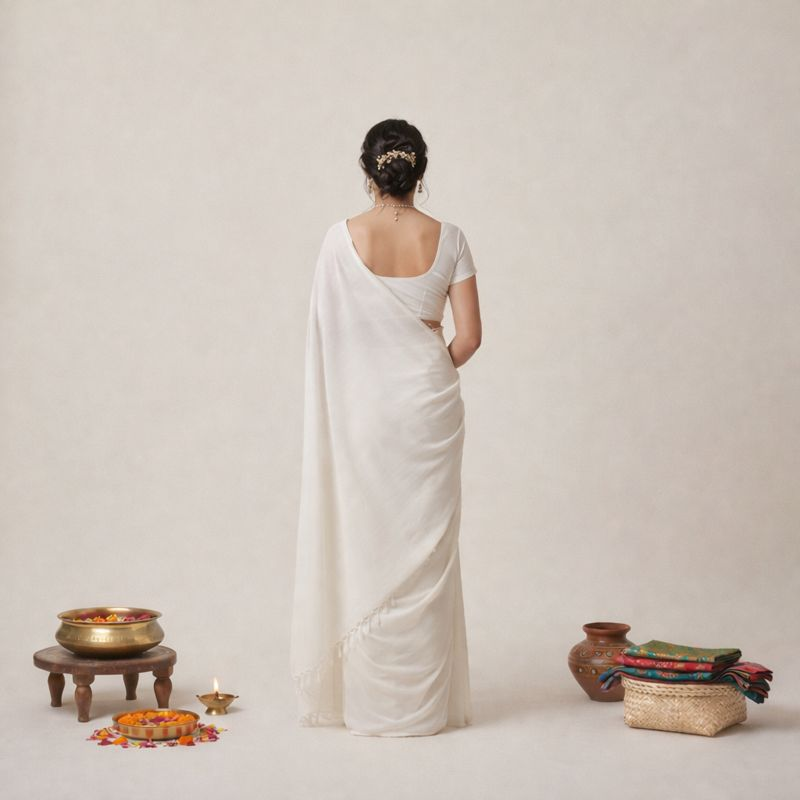
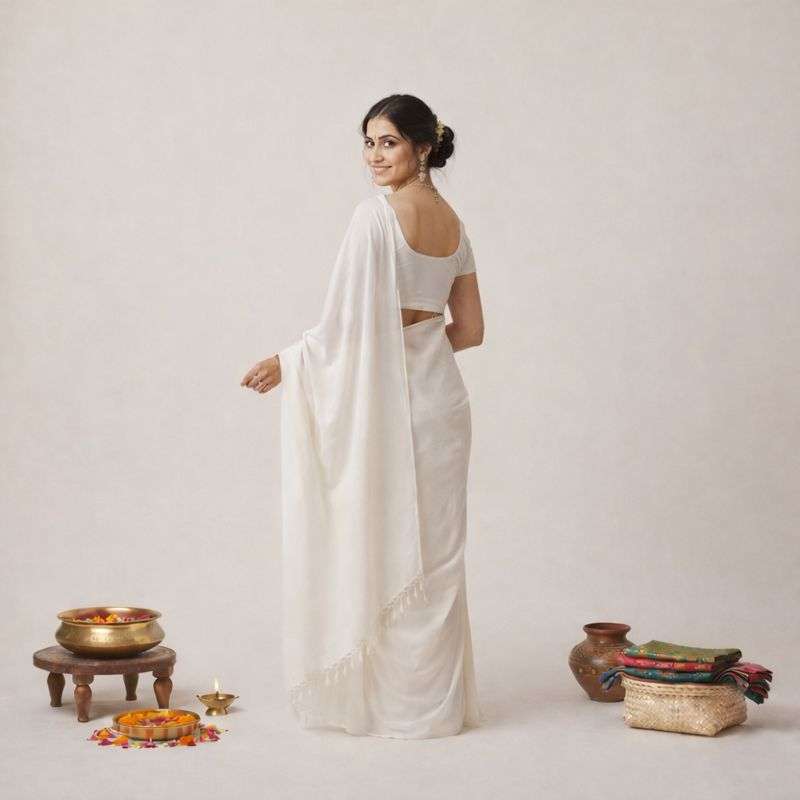
api changes

diff --git a/api/drape-saree-parts.js b/api/drape-saree-parts.js
@@ -70,7 +70,7 @@ async function urlToBase64(imageUrl) {
       const fileBuffer = await fs.readFile(filePath);
       return Buffer.from(fileBuffer).toString('base64');
     }
-    
+
     // Otherwise fetch from URL
     const response = await axios.get(imageUrl, { responseType: 'arraybuffer' });
     return Buffer.from(response.data).toString('base64');
@@ -80,14 +80,80 @@ async function urlToBase64(imageUrl) {
   }
 }
 
+async function urlToBuffer(imageUrl) {
+  // Check if it's a local file path
+  if (imageUrl.startsWith('./') || imageUrl.startsWith('../') || imageUrl.includes('public/')) {
+    const filePath = path.join(process.cwd(), imageUrl.replace('./', ''));
+    return await fs.readFile(filePath);
+  }
+  const response = await axios.get(imageUrl, { responseType: 'arraybuffer' });
+  return Buffer.from(response.data);
+}
+
+async function urlToNormalizedPngBase64(imageUrl, { width, height, fit }) {
+  const input = await urlToBuffer(imageUrl);
+  const out = await sharp(input)
+    .flatten({ background: { r: 255, g: 255, b: 255 } })
+    .resize({ width, height, fit: fit || 'cover' })
+    .png()
+    .toBuffer();
+  return out.toString('base64');
+}
+
+function rgbDistance(a, b) {
+  if (!a || !b) return Number.POSITIVE_INFINITY;
+  const dr = (a.r || 0) - (b.r || 0);
+  const dg = (a.g || 0) - (b.g || 0);
+  const db = (a.b || 0) - (b.b || 0);
+  return Math.sqrt(dr * dr + dg * dg + db * db);
+}
+
+async function averageRgbFromBase64Region(base64Data, regionNorm) {
+  const buf = Buffer.from(String(base64Data), 'base64');
+  const img = sharp(buf);
+  const meta = await img.metadata();
+  const width = meta.width || 0;
+  const height = meta.height || 0;
+  if (!width || !height) return null;
+
+  const left = Math.max(0, Math.floor(width * regionNorm.x));
+  const top = Math.max(0, Math.floor(height * regionNorm.y));
+  const extractW = Math.max(1, Math.min(width - left, Math.floor(width * regionNorm.w)));
+  const extractH = Math.max(1, Math.min(height - top, Math.floor(height * regionNorm.h)));
+
+  const { data, info } = await img
+    .extract({ left, top, width: extractW, height: extractH })
+    .removeAlpha()
+    .raw()
+    .toBuffer({ resolveWithObject: true });
+
+  let r = 0;
+  let g = 0;
+  let b = 0;
+  const n = Math.max(1, info.width * info.height);
+  for (let i = 0; i < data.length; i += 3) {
+    r += data[i];
+    g += data[i + 1];
+    b += data[i + 2];
+  }
+  return {
+    r: Math.round(r / n),
+    g: Math.round(g / n),
+    b: Math.round(b / n)
+  };
+}
+
 // Google Virtual Try-On Service
-async function applyVirtualTryOn(sareeImageUrl, modelImageUrl) {
+async function applyVirtualTryOn(sareeImageUrl, modelImageUrl, { sampleCount = 1 } = {}) {
   try {
     console.log('🎭 Starting Virtual Try-On...');
     
     const token = await getGoogleAccessToken();
-    const sareeBase64 = await urlToBase64(sareeImageUrl);
-    const modelBase64 = await urlToBase64(modelImageUrl);
+    // Normalize inputs for more consistent try-on results.
+    // - Person images are normalized to 1024×1024 (cover)
+    // - Product images are normalized to 768×1024 (contain) on white
+    const modelBase64 = await urlToNormalizedPngBase64(modelImageUrl, { width: 1024, height: 1024, fit: 'cover' });
+    const sareeBase64 = await urlToNormalizedPngBase64(sareeImageUrl, { width: 768, height: 1024, fit: 'contain' });
     
     const url = `https://${LOCATION}-aiplatform.googleapis.com/v1/projects/${GOOGLE_PROJECT_ID}/locations/${LOCATION}/publishers/google/models/virtual-try-on-001:predict`;
     
@@ -103,7 +169,7 @@ async function applyVirtualTryOn(sareeImageUrl, modelImageUrl) {
       }],
       parameters: {
         garmentType: "full_body",
-        sampleCount: 1,
+        sampleCount: Math.max(1, Number(sampleCount) || 1),
         preserveGarmentShape: true,
         poseAlignment: true,
         outputStyle: "realistic"
@@ -120,12 +186,22 @@ async function applyVirtualTryOn(sareeImageUrl, modelImageUrl) {
     
     console.log('✅ Virtual Try-On completed');
     
-    // Return the first generated image
-    const tryonImageBase64 = response.data.predictions[0].bytesBase64Encoded;
-    return {
-      data: String(tryonImageBase64),
-      mimeType: 'image/png'
-    };
+    const preds = Array.isArray(response.data?.predictions) ? response.data.predictions : [];
+    const images = preds
+      .map((p) => p?.bytesBase64Encoded)
+      .filter(Boolean)
+      .map((b64) => ({ data: String(b64), mimeType: 'image/png' }));
+
+    if (images.length === 0) {
+      return null;
+    }
+
+    // Backward-compatible: return single image when sampleCount=1
+    if ((Number(sampleCount) || 1) <= 1) {
+      return images[0];
+    }
+
+    return images;
     
   } catch (error) {
     console.error('❌ Virtual Try-On failed:', error.response?.data || error.message);
@@ -319,8 +395,10 @@ const VITON_LOCAL_URL = process.env.VITON_LOCAL_URL || 'http://localhost:5002';
 // Google Virtual Try-On Configuration
 const GOOGLE_PROJECT_ID = process.env.GOOGLE_PROJECT_ID;
 const LOCATION = "us-central1";
-const MODEL_FRONT_URL = "https://res.cloudinary.com/doiezptnn/image/upload/v1771054723/saree-models/model-front.png"; // Front view model
-const MODEL_BACK_URL = "https://res.cloudinary.com/doiezptnn/image/upload/v1771054724/saree-models/model-back.png"; // Back view model
+// Fixed model images (defaults to local public assets).
+// You can override these via env vars to swap models without code changes.
+const MODEL_FRONT_URL = process.env.MODEL_FRONT_URL || "public/img5.png"; // Front view model
+const MODEL_BACK_URL = process.env.MODEL_BACK_URL || "public/image.png"; // Back view model
 
 // Retry helper for Gemini API calls
 async function callGeminiWithRetry(parts, maxRetries = 3) {
@@ -1978,6 +2056,7 @@ export default async function handler(req, res) {
     // Apply Virtual Try-On to BOTH front and back views (optional, won't break if it fails)
     let tryonFrontView = null;
     let tryonBackView = null;
+    let frontTryonBlouseRgb = null;
     
     console.log('\n========================================');
     console.log('🔄 VIRTUAL TRY-ON PROCESS STARTING');
@@ -2000,8 +2079,19 @@ export default async function handler(req, res) {
         console.log('🔹 [1/2] FRONT VIEW TRY-ON');
         console.log('    Saree:', generatedViews.front);
         console.log('    Model:', MODEL_FRONT_URL);
-        const tryonFrontData = await applyVirtualTryOn(generatedViews.front, MODEL_FRONT_URL);
+        const tryonFrontData = await applyVirtualTryOn(generatedViews.front, MODEL_FRONT_URL, { sampleCount: 1 });
         if (tryonFrontData) {
+          // Capture a cheap reference signal for cross-view consistency selection.
+          // This uses the blouse region average color from the FRONT result.
+          try {
+            frontTryonBlouseRgb = await averageRgbFromBase64Region(tryonFrontData.data, { x: 0.30, y: 0.20, w: 0.40, h: 0.25 });
+            if (frontTryonBlouseRgb) {
+              console.log('🎯 Front blouse reference RGB:', frontTryonBlouseRgb);
+            }
+          } catch (e) {
+            console.warn('⚠ Could not compute front blouse reference RGB (continuing):', e?.message || e);
+          }
+
           // Save base64 to memory before uploading.
           try {
             await saveImageToMemory(tryonFrontData.data, frontViewMemoryKey);
@@ -2030,19 +2120,42 @@ export default async function handler(req, res) {
         console.log('🔹 [2/2] BACK VIEW TRY-ON');
         console.log('    Saree:', generatedViews.back);
         console.log('    Model:', MODEL_BACK_URL);
-        const tryonBackData = await applyVirtualTryOn(generatedViews.back, MODEL_BACK_URL);
-        if (tryonBackData) {
+        // Generate a few back candidates and pick the one closest to the FRONT blouse appearance.
+        const tryonBackData = await applyVirtualTryOn(generatedViews.back, MODEL_BACK_URL, { sampleCount: 3 });
+        const candidates = Array.isArray(tryonBackData) ? tryonBackData : (tryonBackData ? [tryonBackData] : []);
+
+        let chosenBack = candidates[0] || null;
+        if (candidates.length > 1 && frontTryonBlouseRgb) {
+          let bestScore = Number.POSITIVE_INFINITY;
+          for (let i = 0; i < candidates.length; i++) {
+            const c = candidates[i];
+            try {
+              const cRgb = await averageRgbFromBase64Region(c.data, { x: 0.28, y: 0.18, w: 0.44, h: 0.28 });
+              const score = rgbDistance(cRgb, frontTryonBlouseRgb);
+              console.log(`   🧪 Back candidate ${i + 1}/${candidates.length} blouse RGB:`, cRgb, 'score:', score.toFixed(2));
+              if (score < bestScore) {
+                bestScore = score;
+                chosenBack = c;
+              }
+            } catch (e) {
+              console.warn(`⚠ Failed scoring back candidate ${i + 1} (continuing):`, e?.message || e);
+            }
+          }
+          console.log('✅ Selected best back candidate by blouse match score');
+        }
+
+        if (chosenBack) {
           // Save base64 to memory before uploading.
           try {
-            await saveImageToMemory(tryonBackData.data, backViewMemoryKey);
+            await saveImageToMemory(chosenBack.data, backViewMemoryKey);
             console.log('🧠 Saved final BACK to memory:', backViewMemoryKey);
           } catch (e) {
             console.warn('⚠ Failed to save final BACK to memory (continuing):', e?.message || e);
           }
           const tryonBackUrl = await uploadGeneratedImageToCloudinary(
-            tryonBackData.data,
+            chosenBack.data,
             'tryon-back-view',
-            tryonBackData.mimeType
+            chosenBack.mimeType
           );
           tryonBackView = tryonBackUrl;
           console.log('    ✅ SUCCESS - Back view try-on URL:', tryonBackUrl);
